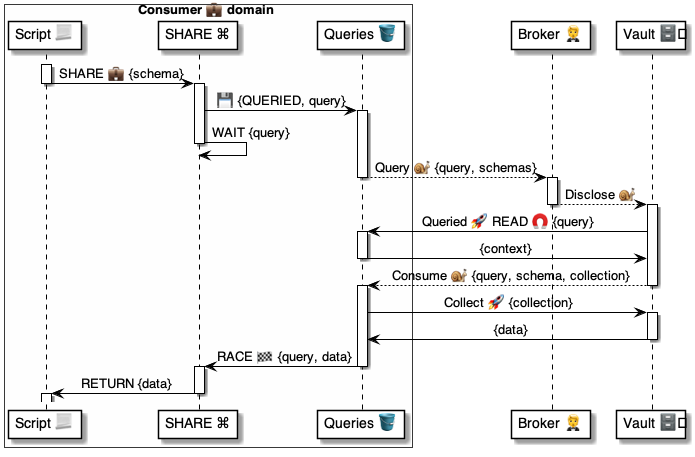
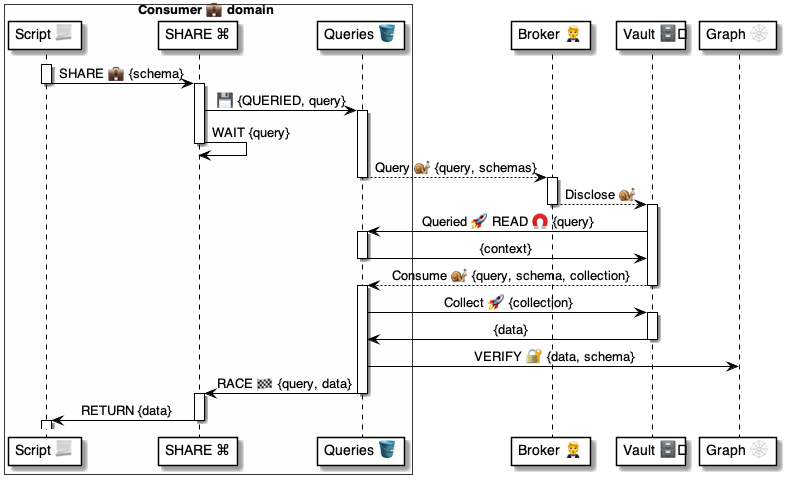
.

diff --git a/4 ⚙ Solution/41 🎭 Domain Roles/Consumers 💼/💼🪣 Consumer tables/Invites 🗄 table/🪣🧱 12 Trusted 🔔 event/💼 OnInviteInvited 🔔 handler.md b/4 ⚙ Solution/41 🎭 Domain Roles/Consumers 💼/💼🪣 Consumer tables/Invites 🗄 table/🪣🧱 12 Trusted 🔔 event/💼 OnInviteInvited 🔔 handler.md
@@ -1,0 +1,33 @@
+# 💼 OnInviteInvited 🔔 handler
+
+> About
+* Part of the [`Consumer.Queries` 🪣 table](<../../Queries 🗄 table/🪣 Queries/💼 Consumer.Queries 🪣 table.md>)
+
+<br/>
+
+## Diagram
+
+![alt text](<💼 OnInviteInvited ⚙ uml.png>)
+
+<br/>
+
+## Script
+
+```yaml
+📃 OnQueryQueried:
+
+# Query the Broker
+- SEND:
+    Header:
+        To: $Query.Broker
+        Subject: Query@Broker
+    Body: 
+        Chat: $Query.Chat
+        Query: $Query.ID
+        Schemas: $Query.Schemas
+```
+
+Uses||
+|-|-
+| [Commands ⌘](<../../../../../35 💬 Chats/Scripts 📃/Command ⌘.md>) | [`SEND`](<../../../../../37 Scripts 📃/📃 Commands ⌘/⌘ for messages 📨/SEND 📬/📬 SEND ⌘ cmd.md>)
+| [{Functions} 🐍](<../../../../../35 💬 Chats/Scripts 📃/Function 🐍.md>) | [`.Require`](<../../../../../37 Scripts 📃/📃 Functions 🐍/🐍 System 🔩 functions/Require ⓕ.md>)

diff --git a/4 ⚙ Solution/41 🎭 Domain Roles/Consumers 💼/💼🪣 Consumer tables/Invites 🗄 table/🪣🧱 21 Helped 🔔 event/💼 OnInviteHelped 🔔 handler.md b/4 ⚙ Solution/41 🎭 Domain Roles/Consumers 💼/💼🪣 Consumer tables/Invites 🗄 table/🪣🧱 21 Helped 🔔 event/💼 OnInviteHelped 🔔 handler.md
@@ -1,8 +1,7 @@
-# 💼 OnQueryConsume 🔔 handler
+# 💼 OnInviteHelped 🔔 handler
 
 > About
-* Part of the [`Consumer.Queries` 🪣 table](<../../Queries 🗄 table/🪣 Queries/💼 Consumer.Queries 🪣 table.md>)
-* Reacts to the [`Consume@Consumer` 🐌 msg](<../../../💼📨 Consumer msgs/Consume 🗄🐌💼/💼 Consume 🐌 msg.md>)
+* Part of the [`Consumer.Invites` 🪣 table](<../../Invites 🗄 table/🪣 Invites/💼 Consumer.Invites 🪣 table.md>)
 
 <br/>
 
@@ -15,7 +14,7 @@
 ## Script
 
 ```yaml
-📃 OnQueryConsume:
+📃 OnInviteHelped:
 
 # Verify if the Vault is trusted
 - TRUSTS >> $trusted:

diff --git a/4 ⚙ Solution/41 🎭 Domain Roles/Consumers 💼/💼🪣 Consumer tables/Invites 🗄 table/🪣🧱 22 Verified 🔔 event/💼 OnInviteVerified 🔔 handler.md b/4 ⚙ Solution/41 🎭 Domain Roles/Consumers 💼/💼🪣 Consumer tables/Invites 🗄 table/🪣🧱 22 Verified 🔔 event/💼 OnInviteVerified 🔔 handler.md
@@ -1,0 +1,26 @@
+# 💼 OnInviteVerified 🔔 handler
+
+> About
+* Part of the [`Consumer.Invites` 🪣 table](<../../Invites 🗄 table/🪣 Invites/💼 Consumer.Invites 🪣 table.md>)
+
+<br/>
+
+## Diagram
+
+![alt text](<💼 OnInviteVerified ⚙ uml.png>)
+
+<br/>
+
+## Script
+
+```yaml
+📃 OnInviteVerified:
+
+# Continue the WAIT
+- RACE|$Invite.ID:
+    $Invite.Help
+```
+
+Uses ||
+|-|-
+| [Commands ⌘](<../../../../../35 💬 Chats/Scripts 📃/Command ⌘.md>) | [`RACE`](<../../../../../37 Scripts 📃/📃 Commands ⌘/⌘ for async/RACE 🏁/🏁 RACE ⌘ cmd.md>)
